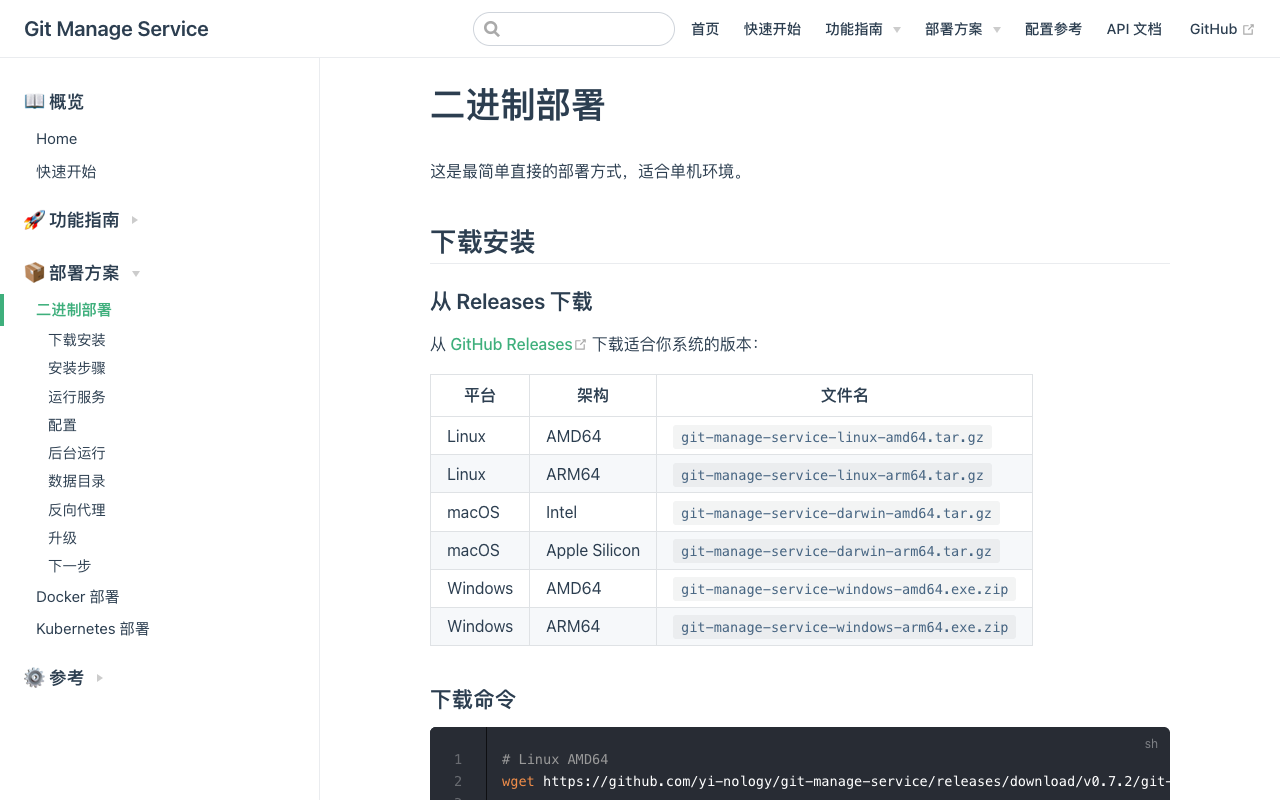
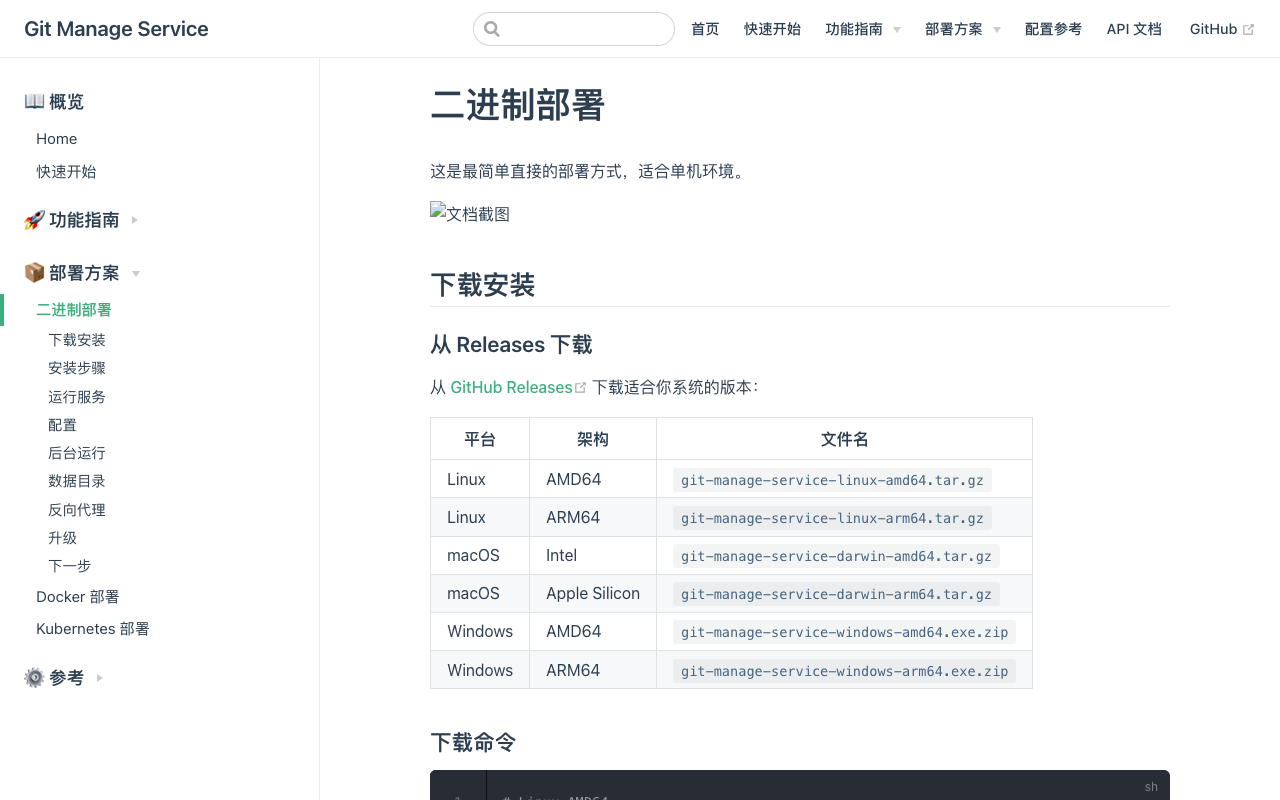
docs: 添加 Spec 编辑器和 Patch 管理文档截图
- 新增 docs-spec-editor.png
- 新增 docs-patch-manager.png
- 更新相关文档引入截图

diff --git a/docs/features/spec-editor.md b/docs/features/spec-editor.md
@@ -1,5 +1,7 @@
 # Spec 编辑器
 
+![文档截图](/images/docs/docs-spec-editor.png)
+
 ## 概述
 
 Spec 编辑器是 Git Manage Service 提供的专业 RPM Spec 文件编辑工具，集成 Monaco Editor 和实时语法检查功能，帮助开发者高效编写和管理 RPM 打包规范文件。

diff --git a/docs/features/patch-manager.md b/docs/features/patch-manager.md
@@ -1,5 +1,7 @@
 # Patch 管理
 
+![文档截图](/images/docs/docs-patch-manager.png)
+
 ## 概述
 
 Patch 管理功能帮助开发者生成、管理和应用 Git Patch 文件，支持批量操作和自动化工作流。
